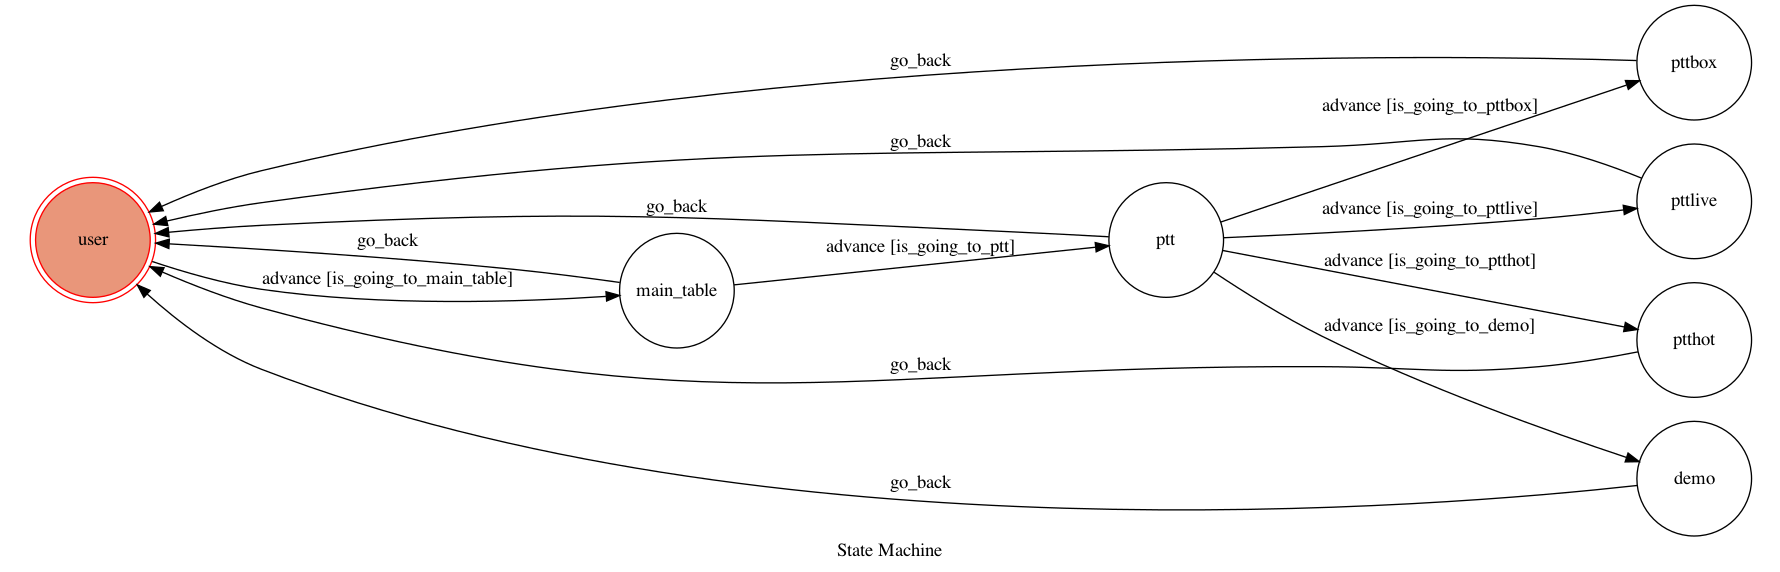
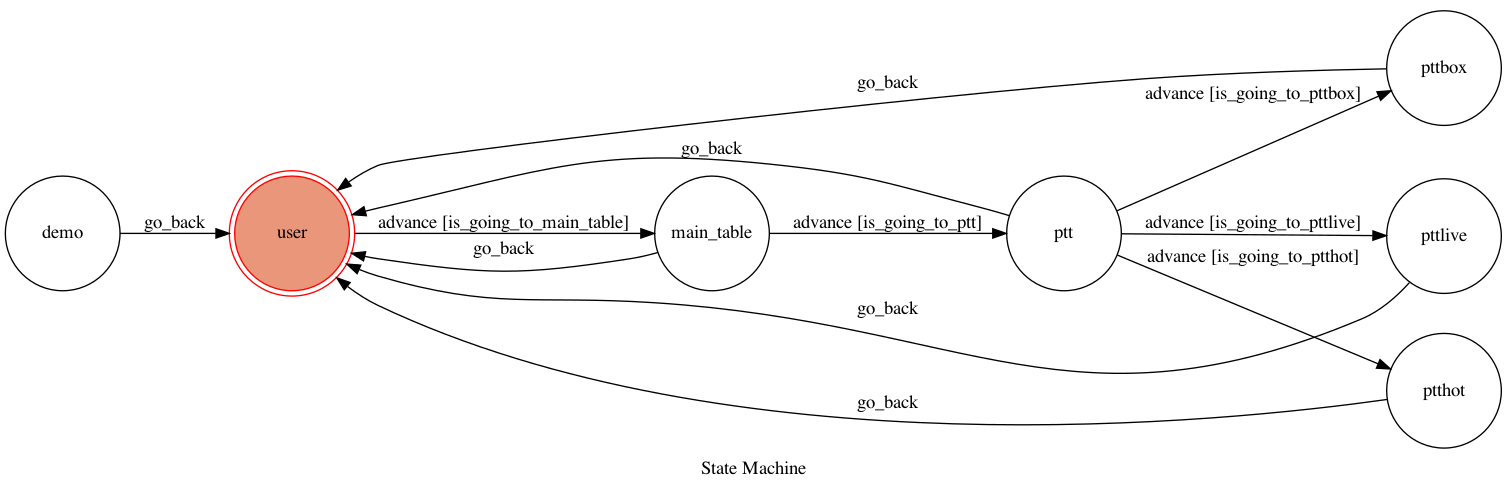
After demo

diff --git a/app.py b/app.py
@@ -16,7 +16,7 @@ load_dotenv()
 machine = TocMachine(
     states=[
             "user", "main_table",
-            "ptt", "pttbox", "pttlive", "ptthot", "demo"
+            "ptt", "pttbox", "pttlive", "ptthot"
             ],
     transitions=[
         {
@@ -50,12 +50,6 @@ machine = TocMachine(
             "conditions": "is_going_to_ptthot",
         },
         {
-            "trigger": "advance",
-            "source": "ptt",
-            "dest": "demo",
-            "conditions": "is_going_to_demo",
-        },
-        {
             "trigger": "go_back", 
             "source": [
                         "main_table", "ptt", "pttbox", "pttlive", "ptthot", "demo"
@@ -70,16 +64,9 @@ machine = TocMachine(
 
 
 final_states = [
-    "pttbox", "pttlive", "ptthot", "demo"
+    "pttbox", "pttlive", "ptthot"
 ]
 
-# states = ["main_table", "ptt", "pttbox", "pttlive", "ptthot"]
-# mt_goto_list = ["ptt"]
-# ptt_goto_list = ["pttbox", "pttlive", "ptthot"]
-# box_goto_list = []
-# live_goto_list = []
-# hot_goto_list = []
-# cangoto_states={"main_table":mt_goto_list, "ptt":ptt_goto_list, "pttbox":box_goto_list, "pttlive":live_goto_list, "ptthot":hot_goto_list}
 
 app = Flask(__name__, static_url_path="")
 
@@ -121,7 +108,8 @@ def callback():
         if not isinstance(event.message.text, str):
             continue
         if event.message.text.lower()=='fsm':
-            machine.go_back()
+            if machine.state!="user":
+                machine.go_back()
             send_image_message(event.reply_token, 'https://github.com/anson0221/Line-Chat-Bot/blob/master/fsm.png?raw=true')
             continue
         

diff --git a/fsm.py b/fsm.py
@@ -35,9 +35,6 @@ class TocMachine(GraphMachine):
         text = event.message.text
         return text.lower() == "ptthot"
 
-    def is_going_to_demo(self, event):
-        text = event.message.text
-        return text.lower() == "demo"
 
     # main_table
     def on_enter_main_table(self, event):
@@ -317,8 +314,3 @@ class TocMachine(GraphMachine):
             text_ += '('+date_list[i]+')'+'\n'+title_list[i]+'\n'+url_list[i]+'\n\n'
 
         send_text_message(reply_token, text_)
-
-    # demo
-    def on_enter_demo(self, event):
-        reply_token = event.reply_token
-        send_text_message(reply_token, 'Hello!')
